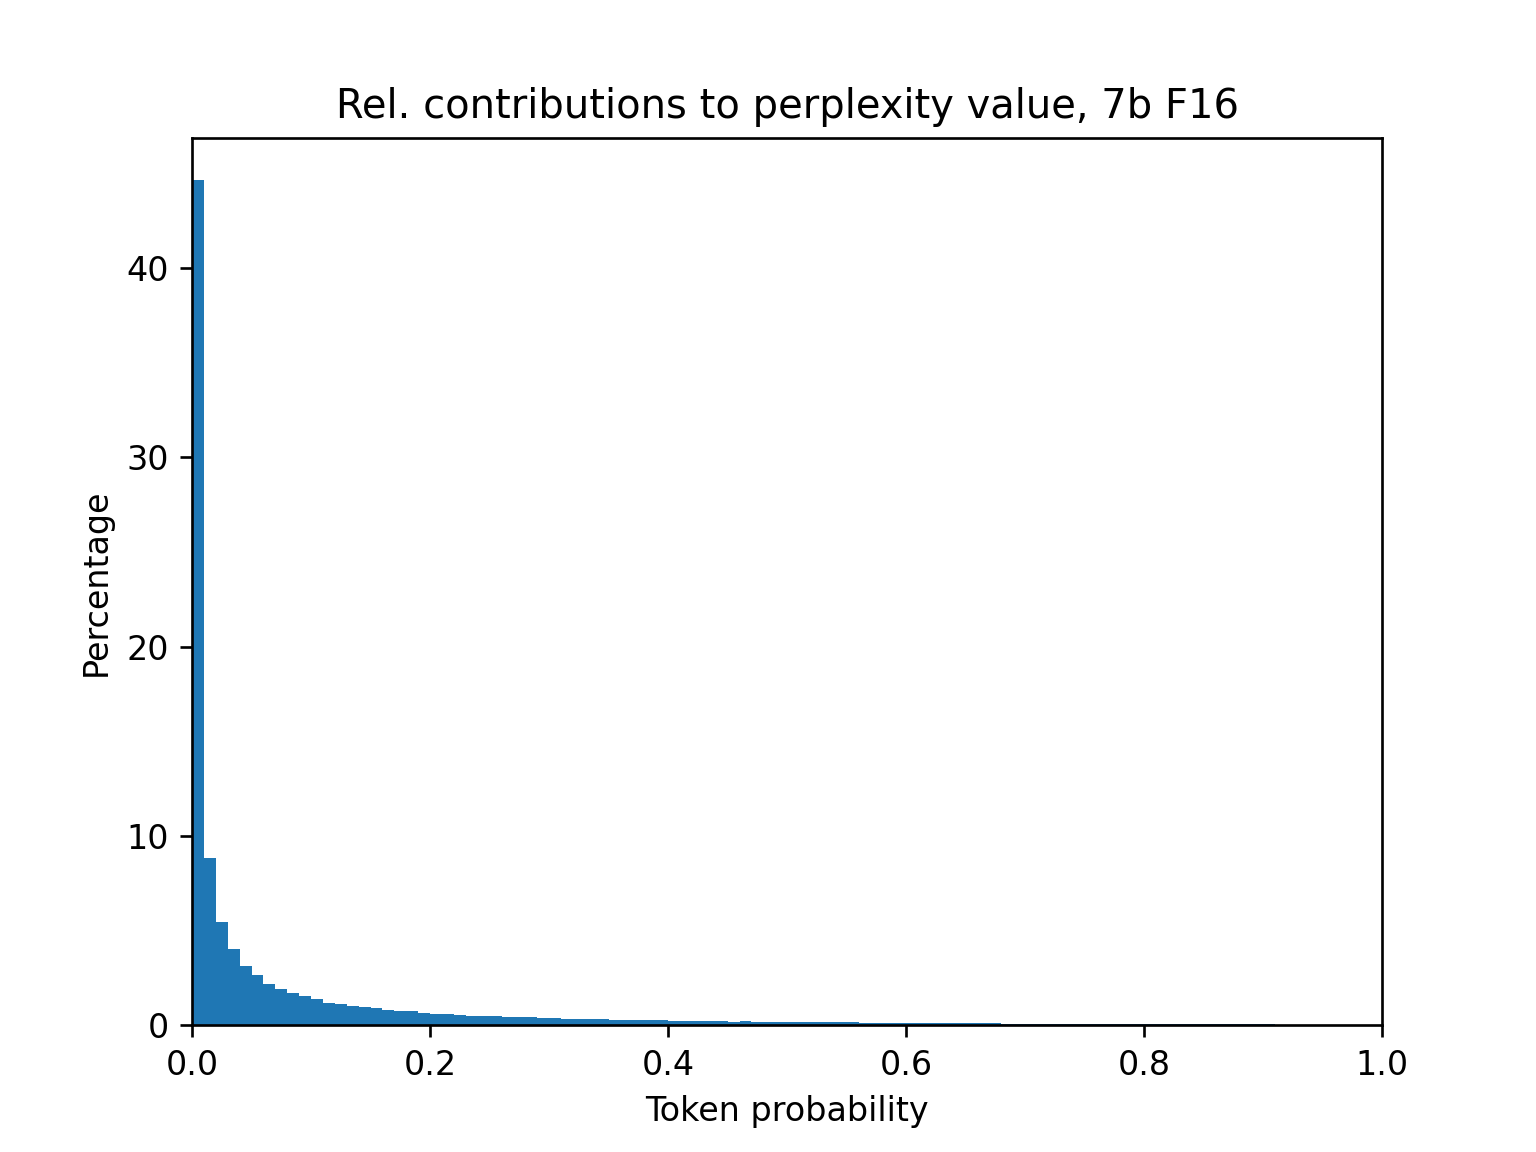
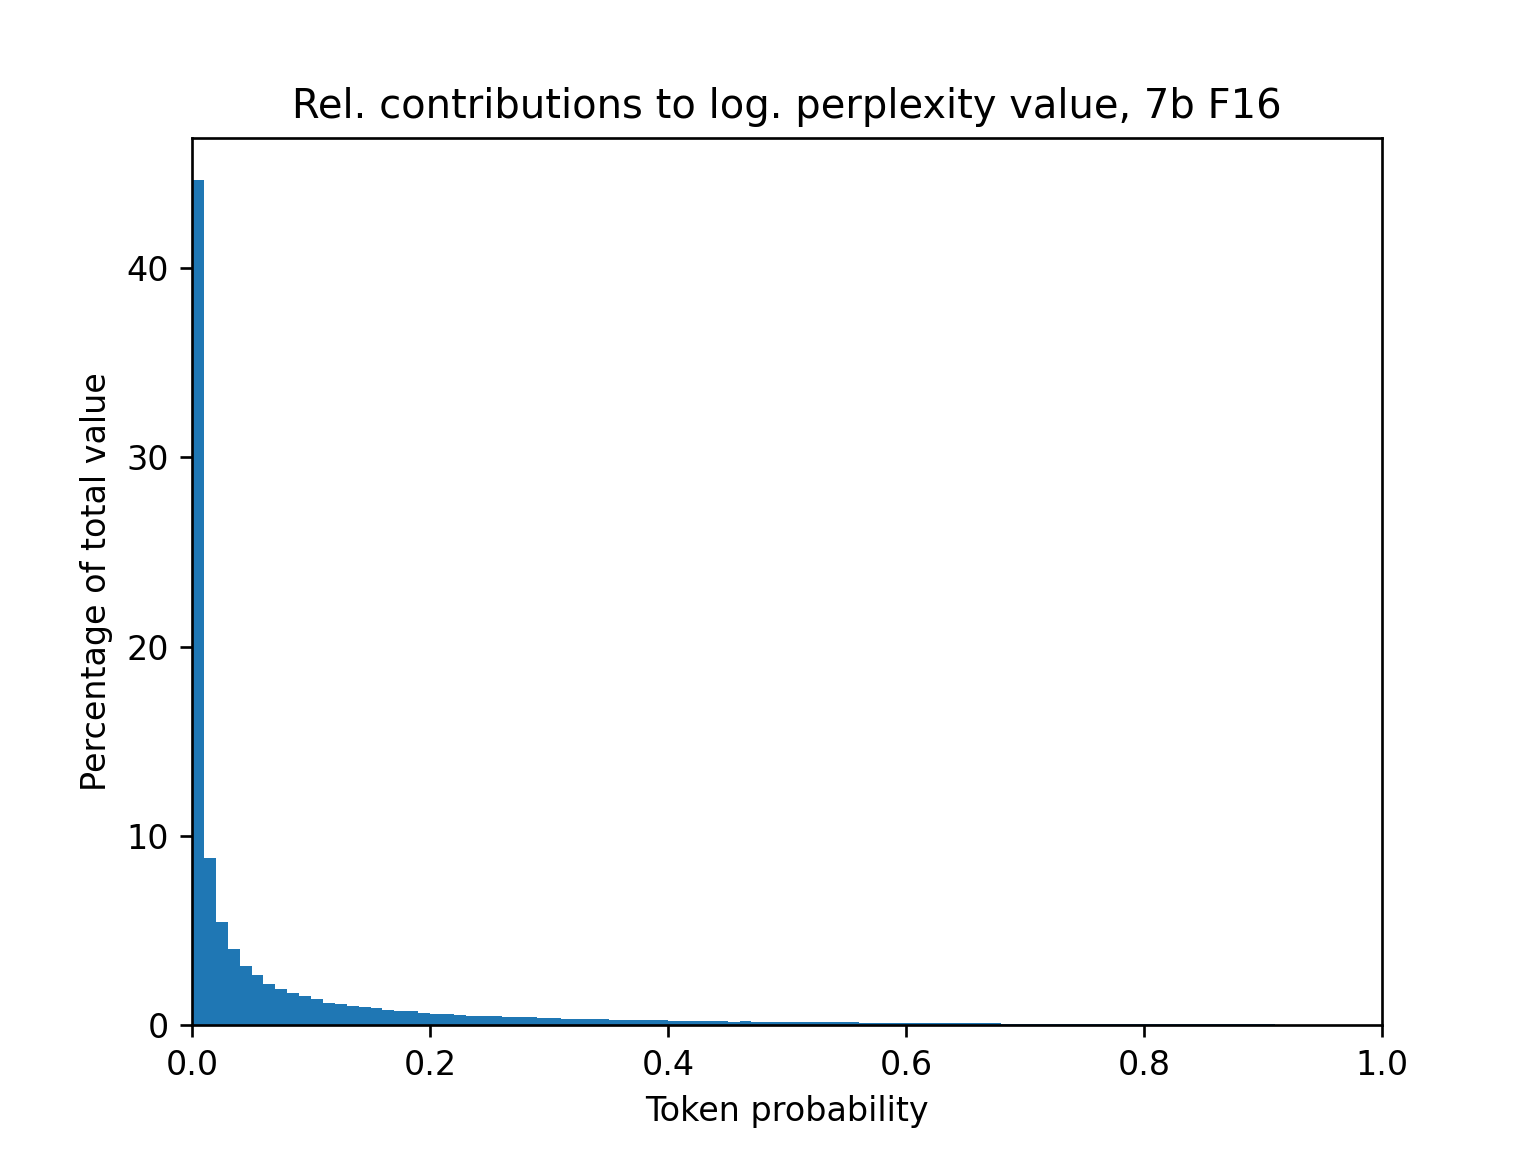
update files

Changed region(s): [[0.1875, 0.0625, 0.8438, 0.125], [0.0312, 0.4375, 0.0938, 0.625], [0.0312, 0.6562, 0.0625, 0.6875]]

diff --git a/llamacpp_quantization_metrics/plot_ppl_hist.py b/llamacpp_quantization_metrics/plot_ppl_hist.py
@@ -97,10 +97,10 @@ for quantization in QUANTIZATIONS:
     rmss_logits.append(rms_logits)
     rmss_probs.append(rms_probs)
 
-    print(f"RMS logits: {rms_logits:.6f} +- {rms_logits_err:.6f}")
+    print(f"RMS logits: {rms_logits:.4e} +- {rms_logits_err:.4e}")
     print(f"Mean prob diffs: {prob_diffs_mean:.4e}")
     print(f"STD prob diffs: {prob_diffs_std:.4e}")
-    print(f"RMS probs: {rms_probs:.6f} +- {rms_probs_err:.6f}")
+    print(f"RMS probs: {rms_probs:.4e} +- {rms_probs_err:.4e}")
     print()
 
     plt.figure()
@@ -129,7 +129,7 @@ for quantization in QUANTIZATIONS:
     plt.hist(logits["F16"], bins=np.linspace(-10, 30, 101), density=True, weights=np.square(logit_diffs))
     plt.xlim(-10, 30)
     plt.title(f"Rel. contribution to logit RMS between 7b F16 and {quantization}")
-    plt.xlabel("Token probability F16")
+    plt.xlabel("Logit F16")
     plt.ylabel("Rel. contribution to logit RMS")
     os.makedirs("plots/logit_rms_contribution", exist_ok=True)
     plt.savefig(f"plots/logit_rms_contribution/logit_rms_contribution_{quantization.lower()}.png", dpi=240)
@@ -139,7 +139,7 @@ for quantization in QUANTIZATIONS:
     plt.xlim(0, 1)
     plt.title(f"Rel. contribution to prob. RMS between 7b F16 and {quantization}")
     plt.xlabel("Token probability F16")
-    plt.ylabel("Rel. contribution to probability RMS")
+    plt.ylabel("Percent contribution to $\mathrm{RMS}_p$")
     os.makedirs("plots/prob_rms_contribution", exist_ok=True)
     plt.savefig(f"plots/prob_rms_contribution/prob_rms_contribution_{quantization.lower()}.png", dpi=240)
 
@@ -290,7 +290,7 @@ plt.hist(probs["F16"], bins=np.linspace(0, 1, 101), density=True, weights=-np.lo
 plt.title("Rel. contributions to log. perplexity value, 7b F16")
 plt.xlim(0, 1)
 plt.xlabel("Token probability")
-plt.ylabel("Percentage")
+plt.ylabel("Percentage of total value")
 plt.savefig("plots/ppl_contributions_f16.png", dpi=240)
 
 # plt.show()

diff --git a/llamacpp_quantization_metrics/llamacpp_quantization_metrics.md b/llamacpp_quantization_metrics/llamacpp_quantization_metrics.md
@@ -74,31 +74,34 @@ In those regions softmax is very flat so changes in the logits result in only sm
 Now, let us think back to the beginning of this blog: the goal is to find a good metric for measuring the quality loss from quantization.
 The metric proposed here is the *root mean square* of the differences in token probabilities:
 
-$$\mathrm{RMS}_p = \sqrt{ \frac{1}{M} \sum_m \left[ p_m^\mathrm{Q} - p_m^\mathrm{F16} \right]^2 }$$
+$$\mathrm{RMS}_p = \sqrt{ \frac{1}{M} \sum_m \left[ p_m^\mathrm{Q} - p_m^\mathrm{F16} \right]^2 },$$
 
 where the upper indices of the probabilities indicate whether the probabilities correspond to the unquantized F16 or the quantized model.
 The index in the sum is supposed to go from 1 to M but for some reason putting this into the LaTeX code breaks the rendering on GitHub.
 
 Effectively the above metric calculates the standard deviation of the probability differences assuming that the mean of the differences is 0.
 This approximation is unproblematic because the mean of the differences is small relative to their standard deviations (lowest ratio is for Q2_K where the standard deviation is ~4 times larger than the absolute value of the mean).
-If we now compare plots of the perplexities and the RMS of the different quantization formats we find:
+If we now compare plots of the perplexities and the $\mathrm{RMS}_p$ of the different quantization formats we find:
 
 ![Combined plot PPL](plots/combined/combined_perplexity.png)
 
 ![Combined plot PPL](plots/combined/combined_rms_probs.png)
 
 Though there are some differences (see the Q5 values) the plots overall look rather similar.
-So why would you prefer one metric over the other.
-The first reason is that the two metrics are not equally sensitive to the same areas of token probability.
+So why would you prefer one metric over the other?
+The first reason is that while perplexity is very abstract the interpretation of $\mathrm{RMS}_p$ is more straightforward:
+it is an estimate of the standard deviation of the changes in token probability from quantization.
+
+The two metrics are also not equally sensitive to the same areas of token probability.
 Perplexity sharply increases when token probabilities get close to 0.
 Pair this with the fact that there are a lot of low-probability tokens in the first place and you find that the perplexity value is overwhelmingly dominated by low-probability tokens:
 
 ![F16 prob hist](plots/ppl_contributions_f16.png)
 
-This is a problem if you consider top-p sampling.
+This is an issue if you consider e.g. top-p sampling.
 With this sampling method low-probability tokens would never be considered for sampling in the first place.
 So changes on the probabilities of those tokens would not make any difference for the actual generation of text.
-If we look at the differences in perplexity when calculated on only a small subset of the total tokens (e.g. the tokens with a probability between 99% and 100%) we find that the differences in perplexity are also the largest for low-probability tokens:
+If we look at the differences in perplexity when calculated on only a small subset of the total tokens (equally sized bins of size 1% in token probability) we find that the differences in perplexity are also the largest for low-probability tokens:
 
 ![PPL diff Q8_0](plots/ppl_diff/ppl_diff_q8_0.png)
 
@@ -108,7 +111,7 @@ However, there are some weird things happening for some of the quantization form
 
 There are instances where the quantized models have a better perplexity on the lowest-probability bin < 1%.
 I'm not entirely sure what is happening here but I hypothesize that the unquantized model is confidently wrong about something in the text.
-Through the process of quantization that confidence is then sometimes eroded away and the model is punished less severely for its wrong confidence - or there is simply a bug in my code.
+Through the process of quantization that confidence is then sometimes eroded away and the model is punished less severely for its wrong confidence.
 In any case, you can completely suppress this effect by filtering out all tokens where the unquantized model has a probability < 0.1% of being correct (these account for 4.2% of all tokens):
 
 ![PPL diff Q2_K corrected](plots/ppl_diff/ppl_diff_corrected_q2_k.png)
@@ -128,30 +131,53 @@ For quantization types that use less than 4 BPW for all layers (Q2\_K, Q3\_K\_S)
 ![RMS contribution Q2_K](plots/prob_rms_contribution/prob_rms_contribution_q2_k.png)
 
 Still, this is less lopsided than the equivalent situation with perplexity.
-My personal interpretation of the plots is that Q2\_K and Q3\_K\_S begin to fail a lot of tokens that the unquantized model was able to get correct with high confidence.
+My personal interpretation of the plots is that Q2\_K and Q3\_K\_S begin to perform poorly on a lot of tokens that the unquantized model was able to get correct with high confidence.
 For comparison, this is the plot for Q3\_K\_M:
 
 ![RMS contribution Q3_K_M](plots/prob_rms_contribution/prob_rms_contribution_q3_k_m.png)
 
-There is still a comparatively high contribution from high-probability tokens but it is not disproportionally higher.
-Now, so far we have only talked about the metrics in and of themselves but there are also practical differences.
+There is still a comparatively high contribution from high-probability tokens but the effect is already much smaller.
+
+Now, so far we have only talked about the metrics in and of themselves but there are also practical differences to calculating them.
 When calculating perplexity we are by definition limited to the "correct" tokens that actually appear in the text that we use as input.
-If we are only concerned with replicating the output of the unquantized model as closely as possible though we could instead look at the probability differences of any token.
+However, If we are only concerned with replicating the output of the unquantized model as closely as possible we could instead be looking at the probability differences of any token.
 It should also be possible to generalize $\mathrm{RMS}_p$ for more than one token probability per token from the input text.
 You could for instance, compare the probabilities of the 10 most likely tokens for the unquantized model.
 This would give you ten times more data points per token of input text and significantly reduce the amount of input text required to get sufficient precision.
-For reference, the uncertainty of $\mathrm{RMS}_p$ can be estimated to be ~1% if you assume a Gaussian distribution.
+For reference, the uncertainty of $\mathrm{RMS}_p$ when using only the correct tokens on wikitext can be estimated to be ~1% if you assume a Gaussian distribution.
 
 The way to implement calculating $\mathrm{RMS}_p$ from more than one input token could be as follows:
 First, calculate reference probabilities using the unquantized model.
 During the calculation, select some subset of probabilities and write them to a file (combinations of tokens and their assigned probabilities).
 Next, re-run the calculations with the quantized model and provide the file as input.
-You can now select the tokens specified in the file and calculate $\mathrm{RMS}_p$ for each token.
-The final result would then just be the sum of $\mathrm{RMS}_p$ for all tokens.
+You can now select the tokens specified in the file and calculate the squared error for each token.
+The final result would then just be $\mathrm{RMS}_p$ using the mean of all squared errors.
 
-One issue that could arise from calculating more than one $\mathrm{RMS}_p$ value per input token is that due to the nature of softmax the probabilities will be correlated.
+One issue that could arise from calculating more than one squared error value per input token is that due to the nature of softmax the probabilities will be correlated.
 So the rate of convergence towards the final value that you would see with infinite tokens should be slower than just the rate of convergence with 1 token multiplied with the number of tokens considered.
 The rate of convergence should always increase by adding more tokens however (but you will need to be careful when trying to assign an uncertainty to the final result).
 
 Finally, what I did not explore is the portability of $\mathrm{RMS}_p$ across multiple input texts and models.
 The perplexity calculated on two different input texts is going to be different, but $\mathrm{RMS}_p$ may end up being the same or at least very similar - this may be worth exploring.
+
+# Appendix
+
+Plots for all quantization formats, including some that I did not include in this blog post (e.g. for logit RMS) can be on my [GitHub page](https://github.com/JohannesGaessler/johannesgaessler.github.io/tree/master/llamacpp_quantization_metrics). The GitHub page also includes the Python script that I used to generate the plots.
+Here is also a table of my results:
+
+| Quantization format | Model size [GiB] | Perplexity | RMS logits               | $\mathrm{RMS}_p$         | Mean prob diffs | STD prob diffs |
+|---------------------|------------------|------------|--------------------------|--------------------------|-----------------|----------------|
+| Q4_0                | 3.56             | 5.9667     | 6.4194e-01 +- 2.6739e-03 | 4.8091e-02 +- 3.2271e-04 | -6.1943e-03     | 4.7691e-02     |
+| Q4_1                | 3.95             | 6.0010     | 7.4797e-01 +- 3.1986e-03 | 5.2213e-02 +- 3.5856e-04 | -8.3283e-03     | 5.1544e-02     |
+| Q5_0                | 4.33             | 5.8291     | 3.3836e-01 +- 2.5083e-03 | 2.5776e-02 +- 2.0147e-04 | -1.0959e-03     | 2.5753e-02     |
+| Q5_1                | 4.72             | 5.8531     | 3.3836e-01 +- 2.5083e-03 | 2.5776e-02 +- 2.0147e-04 | -1.0959e-03     | 2.5753e-02     |
+| Q8_0                | 6.64             | 5.8013     | 7.4246e-02 +- 7.6008e-04 | 6.9985e-03 +- 8.1228e-05 | -7.9424e-06     | 6.9985e-03     |
+| Q2_K                | 2.63             | 6.4462     | 1.6808e+00 +- 9.3935e-03 | 9.9569e-02 +- 5.4573e-04 | -2.7971e-02     | 9.5560e-02     |
+| Q3_K_S              | 2.75             | 6.2947     | 1.3440e+00 +- 4.2525e-03 | 8.7031e-02 +- 4.9141e-04 | -2.2907e-02     | 8.3962e-02     |
+| Q3_K_M              | 3.07             | 6.0272     | 7.8546e-01 +- 2.6638e-03 | 5.9372e-02 +- 3.9066e-04 | -1.1507e-02     | 5.8247e-02     |
+| Q3_K_L              | 3.35             | 5.9872     | 7.2806e-01 +- 2.5221e-03 | 5.4021e-02 +- 3.7963e-04 | -8.9787e-03     | 5.3269e-02     |
+| Q4_K_S              | 3.59             | 5.8890     | 5.0052e-01 +- 2.0265e-03 | 3.9054e-02 +- 2.7155e-04 | -5.0621e-03     | 3.8725e-02     |
+| Q4_K_M              | 3.80             | 5.8803     | 4.2331e-01 +- 1.9717e-03 | 3.2940e-02 +- 2.5994e-04 | -4.3586e-03     | 3.2650e-02     |
+| Q5_K_S              | 4.33             | 5.8222     | 3.2355e-01 +- 1.7203e-03 | 2.4456e-02 +- 1.9604e-04 | -1.1886e-03     | 2.4427e-02     |
+| Q5_K_M              | 4.45             | 5.8282     | 2.3983e-01 +- 1.2860e-03 | 1.8893e-02 +- 1.5800e-04 | -1.0047e-03     | 1.8866e-02     |
+| Q6_K                | 5.15             | 5.8095     | 1.6149e-01 +- 1.3805e-03 | 1.2712e-02 +- 1.1252e-04 | -5.2424e-04     | 1.2701e-02     |
